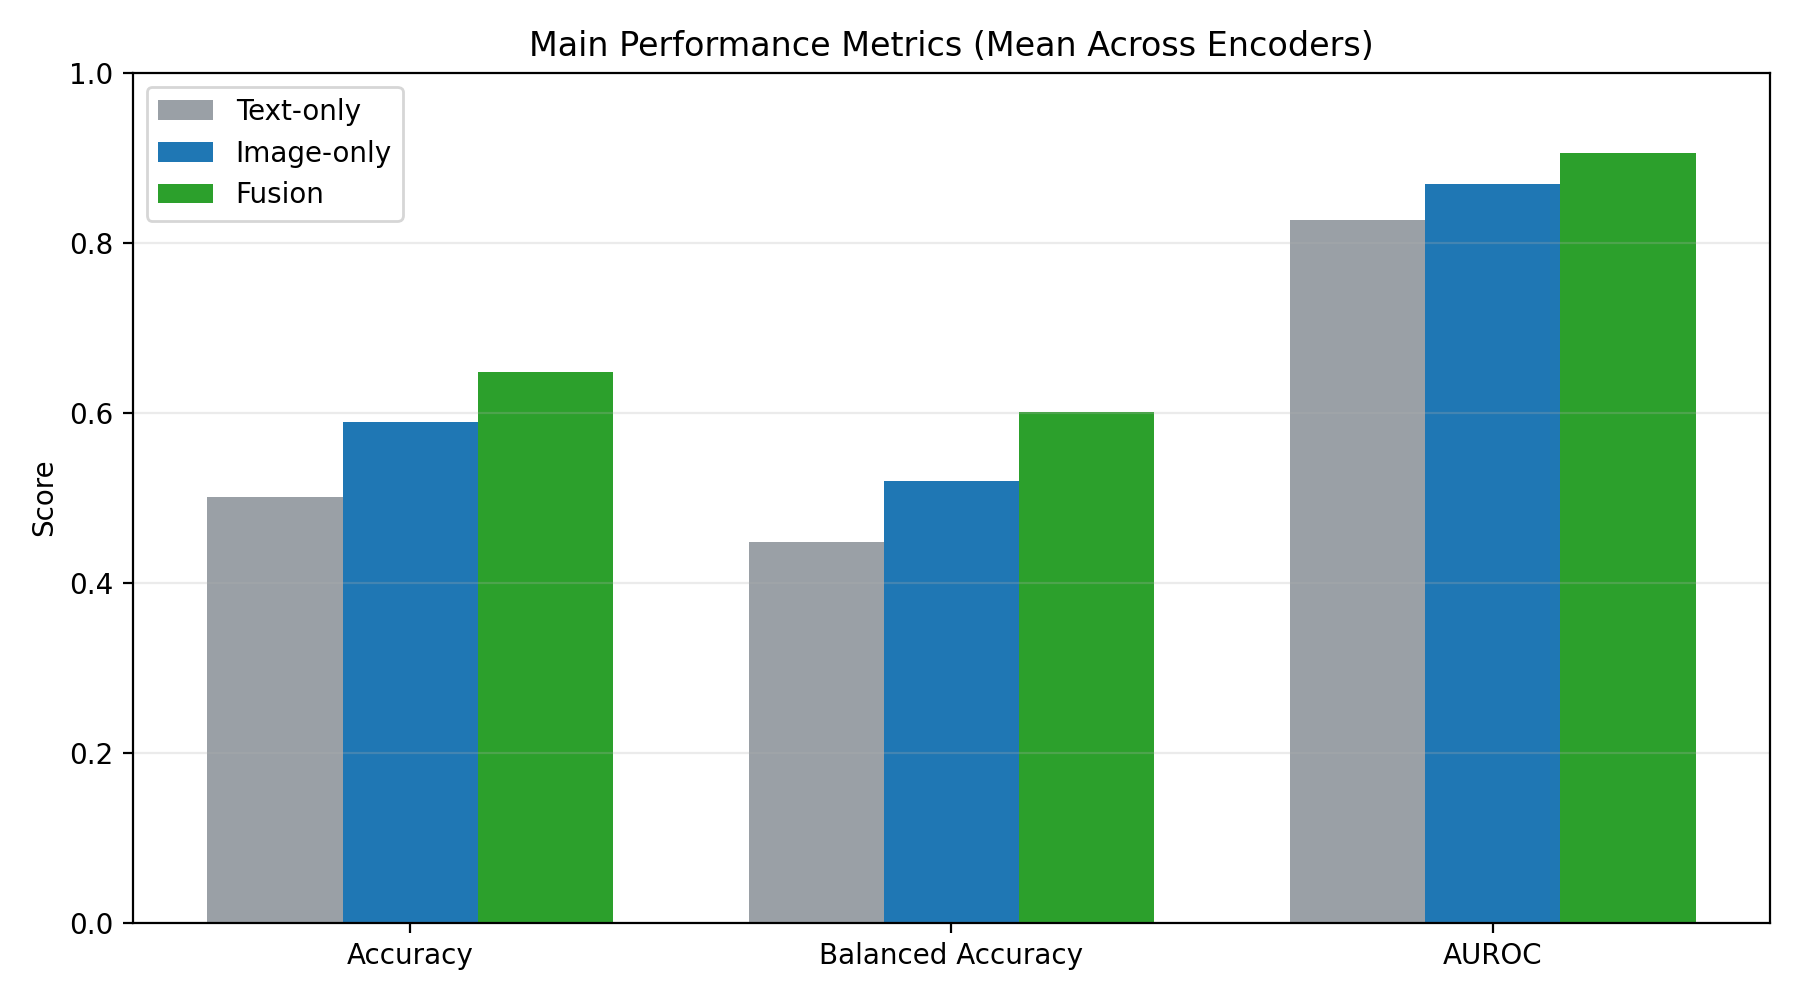
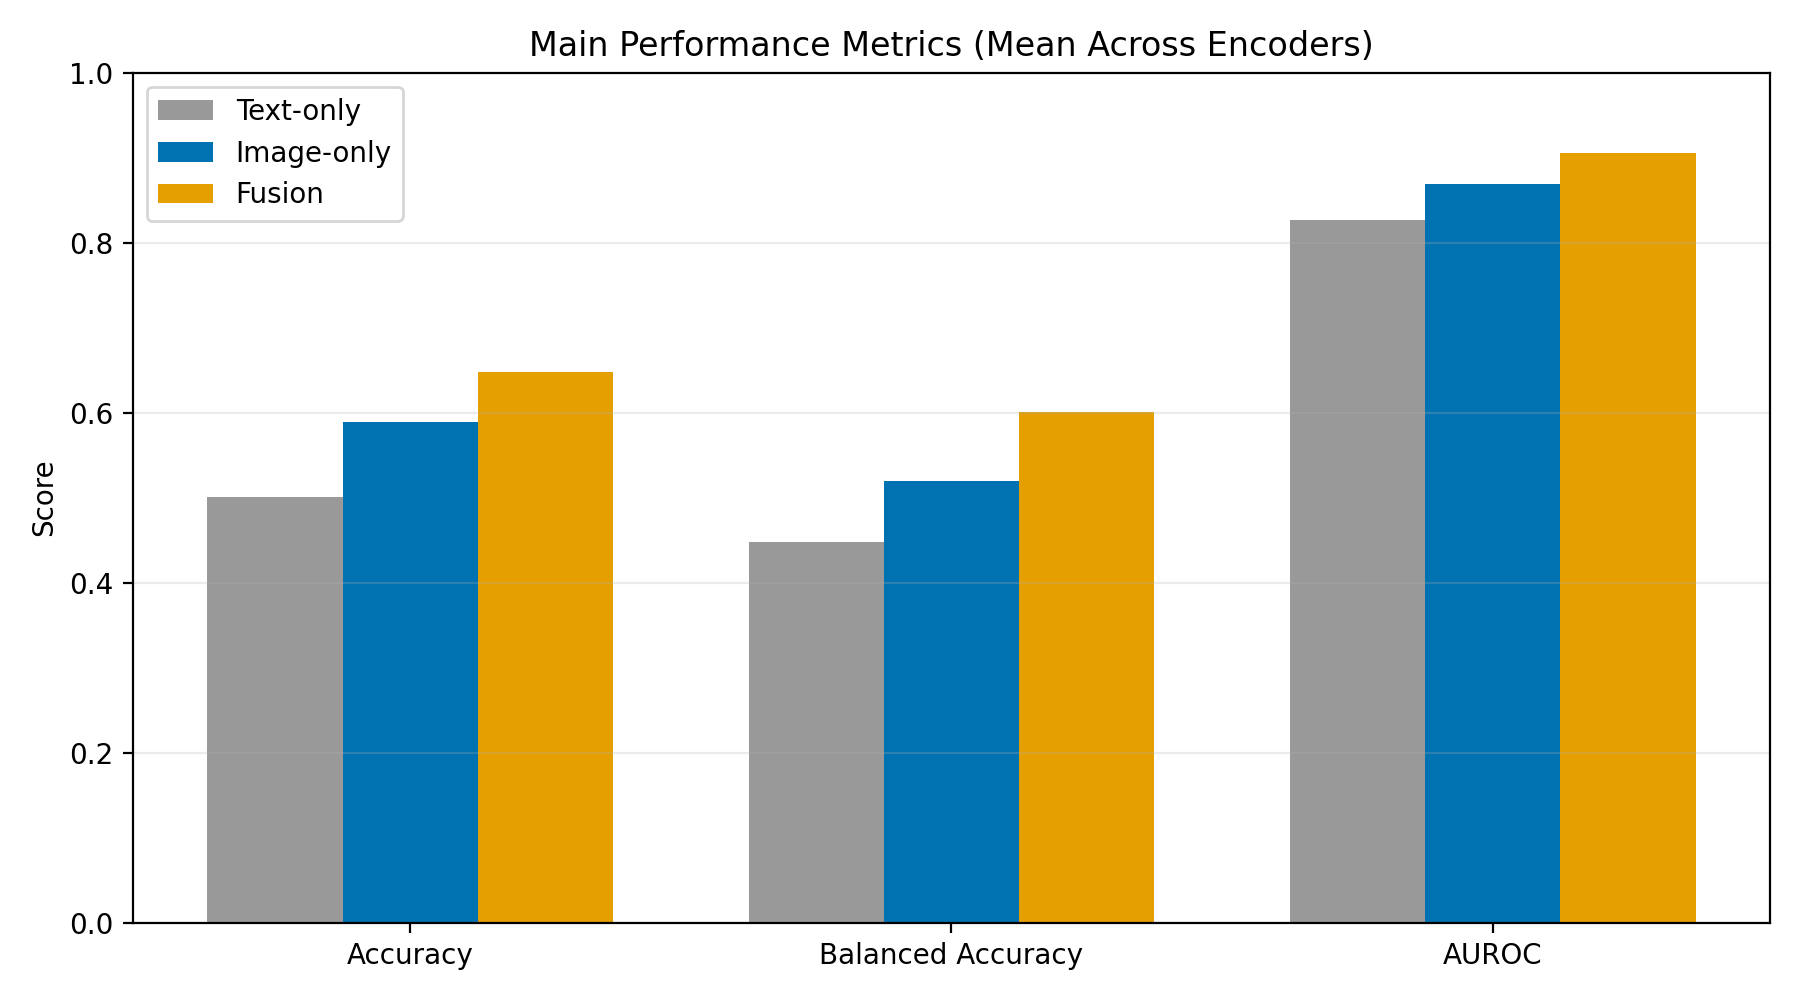
figs

diff --git a/src/paper/figures.py b/src/paper/figures.py
@@ -51,9 +51,10 @@ def _plot_main_metric_bars(summary: dict, out_path: Path) -> None:
     width = 0.25
 
     fig, ax = plt.subplots(figsize=(9, 5))
-    ax.bar(x - width, txt_vals, width=width, label="Text-only", color="#9aa0a6")
-    ax.bar(x, img_vals, width=width, label="Image-only", color="#1f77b4")
-    ax.bar(x + width, fus_vals, width=width, label="Fusion", color="#2ca02c")
+    # Okabe-Ito-inspired palette for clearer contrast and colorblind safety.
+    ax.bar(x - width, txt_vals, width=width, label="Text-only", color="#999999")
+    ax.bar(x, img_vals, width=width, label="Image-only", color="#0072B2")
+    ax.bar(x + width, fus_vals, width=width, label="Fusion", color="#E69F00")
 
     ax.set_xticks(x)
     ax.set_xticklabels(metrics)
@@ -106,18 +107,50 @@ def _plot_calibration_bars(summary: dict, out_path: Path) -> None:
 
 def _plot_per_class_delta(per_class_delta: list[dict], out_path: Path) -> None:
     order = ["0MEL", "1NV", "2BCC", "3AK", "4BKL", "5DF", "6VASC", "7SCC"]
+    short_name = {
+        "0MEL": "MEL",
+        "1NV": "NV",
+        "2BCC": "BCC",
+        "3AK": "AK",
+        "4BKL": "BKL",
+        "5DF": "DF",
+        "6VASC": "VASC",
+        "7SCC": "SCC",
+    }
     by_key = {row["class_key"]: row for row in per_class_delta}
 
     classes = [k for k in order if k in by_key]
-    deltas = [float(by_key[k]["delta"]) for k in classes]
+    y = np.arange(len(classes))
+    img_vals = [float(by_key[k]["img_mean"]) for k in classes]
+    fus_vals = [float(by_key[k]["fus_mean"]) for k in classes]
+    deltas_pp = [(f - i) * 100.0 for i, f in zip(img_vals, fus_vals)]
 
-    fig, ax = plt.subplots(figsize=(9, 4.5))
-    colors = ["#2ca02c" if d >= 0 else "#d62728" for d in deltas]
-    ax.bar(classes, deltas, color=colors)
-    ax.axhline(0, color="black", linewidth=1)
-    ax.set_ylabel("Fusion - Image balanced accuracy")
-    ax.set_title("Per-class Balanced Accuracy Delta")
-    ax.grid(axis="y", alpha=0.25)
+    fig, ax = plt.subplots(figsize=(9.5, 5.2))
+    for yi, x0, x1 in zip(y, img_vals, fus_vals):
+        ax.hlines(yi, x0, x1, color="#999999", linewidth=2.0, alpha=0.9, zorder=1)
+    ax.scatter(img_vals, y, label="Image-only", color="#0072B2", s=58, zorder=3)
+    ax.scatter(fus_vals, y, label="Fusion", color="#E69F00", s=58, zorder=3)
+
+    for yi, x1, dpp in zip(y, fus_vals, deltas_pp):
+        sign = "+" if dpp >= 0 else "-"
+        ax.text(
+            x1 + 0.015,
+            yi,
+            f"{sign}{abs(dpp):.1f} pp",
+            va="center",
+            ha="left",
+            fontsize=9,
+            color="#333333",
+        )
+
+    ax.set_yticks(y)
+    ax.set_yticklabels([short_name[k] for k in classes])
+    ax.set_xlim(0.30, 0.82)
+    ax.set_xlabel("Balanced Accuracy")
+    ax.set_title("Per-class Balanced Accuracy: Image-only vs Fusion")
+    ax.grid(axis="x", alpha=0.25)
+    ax.legend(loc="lower right")
+    ax.invert_yaxis()
 
     plt.tight_layout()
     plt.savefig(out_path, dpi=200)
